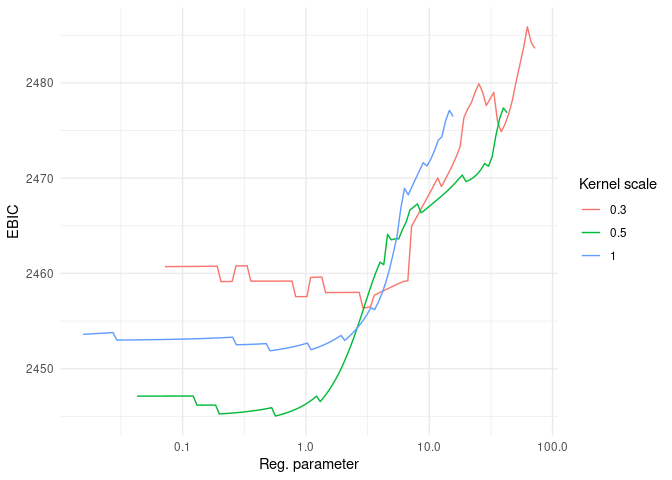
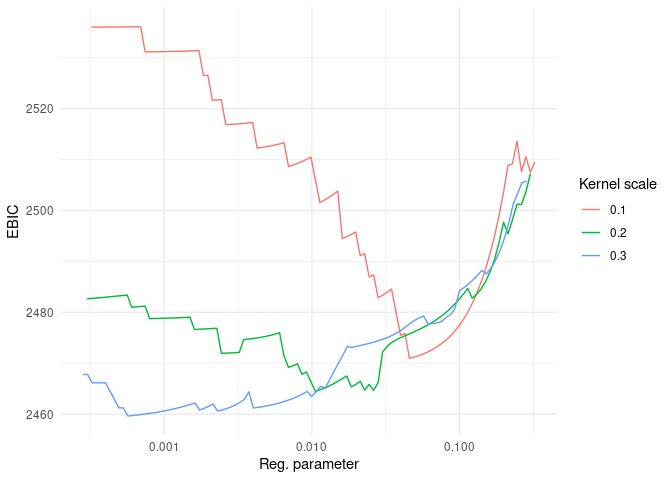
update readme

diff --git a/README.md b/README.md
@@ -1,7 +1,7 @@
 
 <!-- README.md is generated from README.Rmd. Please edit that file -->
 
-Last updated: *Sep-18-2023*
+Last updated: *Oct-28-2023*
 
 # LSVCMM
 
@@ -23,7 +23,7 @@ devtools::install_github("fontaine618/LSVCMM")
 ## Reference
 
 For details on the LSVCMM method, refer to the [Draft
-manuscript](bit.ly/lsvcmm).
+manuscript](https://bit.ly/lsvcmm).
 
 ## Example
 
@@ -31,14 +31,15 @@ This is a basic example which shows you how to solve a common problem:
 
 ``` r
 library(LSVCMM)
-data = generate_synthetic_data()
+instance = generate_synthetic_data()
 fit = lsvcmm(
-  data=data$data, 
+  data=instance$data, 
   response="response",
   subject="subject_id",
   time="time",
   vc_covariates="group",
-  kernel=list(scale=c(0.3, 0.5, 1.))
+  kernel=list(scale=c(0.1, 0.2, 0.3)),
+  penalty=list(adaptive=0.5, penalize_intercept=T)
 )
 ```
 
@@ -57,14 +58,20 @@ ggplot() +
 ``` r
 
 i = which.min(fit$results$ebich)
-fit$vc_path[,,i]
-#>             [,1]        [,2]        [,3]        [,4]        [,5]       [,6]
-#> [1,]  0.03275999 -0.01016253 -0.06624197 -0.09219969 -0.09158987 -0.1120982
-#> [2,] -0.20019829  0.00000000  0.00000000  0.00000000  0.03315548  0.1962638
-#>            [,7]       [,8]       [,9]      [,10]     [,11]
-#> [1,] -0.1921048 -0.3012465 -0.3340842 -0.1740154 0.2178366
-#> [2,]  0.8923241  1.0984185  1.2979464  1.0967269 0.4775085
-data$true_values
+t(fit$vc_path[,,i])
+#>              [,1]       [,2]
+#>  [1,]  0.00000000 -0.1905021
+#>  [2,]  0.00000000  0.0000000
+#>  [3,]  0.00000000  0.0000000
+#>  [4,] -0.16977513  0.0000000
+#>  [5,]  0.00000000  0.0000000
+#>  [6,] -0.04898868  0.1558412
+#>  [7,] -0.48785789  1.2715141
+#>  [8,] -0.31260794  1.2169534
+#>  [9,]  0.00000000  0.7558545
+#> [10,] -0.22549099  1.0335752
+#> [11,]  0.00000000  0.9595684
+instance$true_values
 #>    time b0        b1
 #> 1   0.0  0 0.0000000
 #> 2   0.1  0 0.0000000
@@ -79,17 +86,21 @@ data$true_values
 #> 11  1.0  0 0.9996646
 fit$results[i, ]
 #>           llk      rss family.dispersion family.name
-#> 163 -1213.451 872.9491          1.165486    gaussian
+#> 290 -1219.911 956.1185          1.276527    gaussian
 #>                    penalty.name penalty.alpha penalty.lambda penalty.adaptive
-#> 163 adaptive_sparse_group_lasso             1      0.5654141                0
+#> 290 adaptive_sparse_group_lasso             1   0.0005697523              0.5
 #>     penalty.penalize_intercept link_function.name working_covariance.estimate
-#> 163                      FALSE           identity                        TRUE
+#> 290                       TRUE           identity                       FALSE
 #>     working_covariance.ratio working_covariance.name kernel.name kernel.scale
-#> 163                0.7461958       compound_symmetry    gaussian          0.5
+#> 290                0.3703248       compound_symmetry    gaussian          0.3
 #>     control.max_iter control.max_rounds control.rel_tol control.verbose
-#> 163             1000                 50           1e-06               1
-#>     control.update_method control.backtracking_fraction df df_kernel df_logn
-#> 163                   PGD                           0.9 19  1.949019  118.12
-#>     df_logn_kernel df_max      aic   aich      bic     bich     ebic    ebich
-#> 163       12.11674     22 2464.901 2430.8 2545.022 2439.018 2603.751 2445.043
+#> 290             1000                 50           1e-06               1
+#>     control.update_method control.backtracking_fraction
+#> 290                   PGD                           0.9
+#>     control.two_step_estimation control.stepsize_factor      penalty df
+#> 290                        TRUE                       1 2.869372e-06 12
+#>     df_kernel  df_logn df_logn_kernel df_max      aic     aich      bic
+#> 290  2.051598 78.72887          13.46     22 2463.822 2443.925 2518.551
+#>         bich     ebic    ebich
+#> 290 2453.282 2555.643 2459.623
 ```
